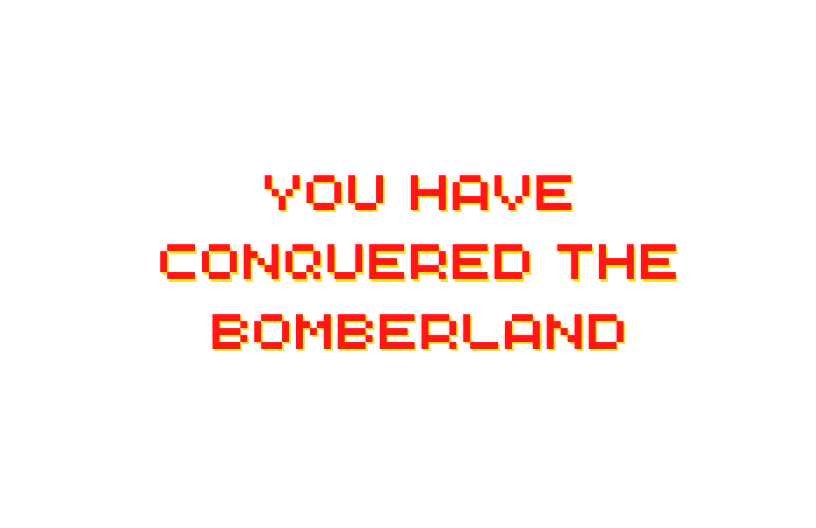
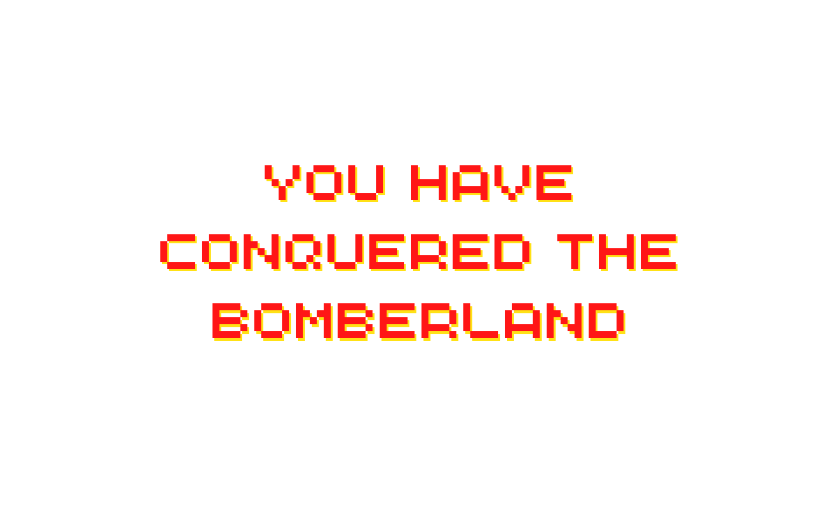
Final Touch, Game Over Menu, Finish Game Menu

Changed region(s): [[0.1838, 0.303, 0.8272, 0.5455], [0.2451, 0.5758, 0.7659, 0.6667]]

diff --git a/src/main/java/GUI/GameDone.java b/src/main/java/GUI/GameDone.java
@@ -13,9 +13,18 @@ import java.util.Objects;
 
 public class GameDone extends Scene {
     Image gameDone;
-    BufferedImage nextButton, nextButtonPressed, currentNextButton, finishMenu;
+    BufferedImage nextButton, nextButtonPressed, currentNextButton, finishMenu, finishMenuPressed, currentFinishMenu;
     Rectangle nextButtonRect;
     MouseHandler mouseH = Window.getMouseH();
+
+    public static GameDone instance = null;
+
+    public static GameDone getInstance() {
+        if (GameDone.instance == null) {
+            GameDone.instance = new GameDone();
+        }
+        return GameDone.instance;
+    }
 
     GameDone() {
 
@@ -26,9 +35,6 @@ public class GameDone extends Scene {
         try {
             nextButton = ImageIO.read(Objects.requireNonNull(getClass().getResourceAsStream("/Menu/Next.png")));
             nextButtonPressed = ImageIO.read(Objects.requireNonNull(getClass().getResourceAsStream("/Menu/NextPressed.png")));
-
-            finishMenu = ImageIO.read(Objects.requireNonNull(getClass().getResourceAsStream("/Menu/FinishMenu.png")));
-
             currentNextButton = nextButton;
 
         } catch (Exception e) {
@@ -39,25 +45,20 @@ public class GameDone extends Scene {
 
     @Override
     public void update() {
-        if (mouseH.checkInteractWithRect(mouseH, nextButtonRect)) {
-            currentNextButton = nextButtonPressed;
-            if (mouseH.isPressed) {
-                Window.getWindow().changeState(4);
+            if (mouseH.checkInteractWithRect(mouseH, nextButtonRect)) {
+                currentNextButton = nextButtonPressed;
+                if (mouseH.isPressed) {
+                    Window.getWindow().changeState(4); //From Congratulation to Credit
+                }
+            } else {
+                    currentNextButton = nextButton;
             }
-        } else {
-            currentNextButton = nextButton;
         }
-    }
+
 
     @Override
     public void draw(Graphics g) {
-        if (Window.getWindow().getCurrentState() == 3) {
-            g.drawImage(gameDone, 0, 0, Constant.WIDTH, Constant.HEIGHT, null);
-            g.drawImage(currentNextButton, 0, 0, Constant.WIDTH, Constant.HEIGHT, null);
-        }   else {
-            g.setColor(new Color(0, 0, 0, 150));
-            g.fillRect(0, 0, Constant.WIDTH, Constant.HEIGHT);
-            g.drawImage(finishMenu, 0, 0, Constant.WIDTH, Constant.HEIGHT, null);
-        }
+        g.drawImage(gameDone, 0, 0, Constant.WIDTH, Constant.HEIGHT, null);
+        g.drawImage(currentNextButton, 0, 0, Constant.WIDTH, Constant.HEIGHT, null);
     }
 }

diff --git a/src/main/java/GUI/FinishMenu.java b/src/main/java/GUI/FinishMenu.java
@@ -1,0 +1,52 @@
+package GUI;
+
+import Controls.MouseHandler;
+import Variables.Constant;
+
+import javax.imageio.ImageIO;
+import java.awt.*;
+import java.awt.image.BufferedImage;
+import java.util.Objects;
+
+public class FinishMenu {
+    BufferedImage finishMenu, finishMenuPressed, currentFinishMenu;
+    Rectangle nextButtonRect;
+    MouseHandler mouseH = Window.getMouseH();
+    public static FinishMenu instance = null;
+
+    public static FinishMenu getInstance(){
+        if (FinishMenu.instance == null){
+            FinishMenu.instance = new FinishMenu();
+        }
+        return FinishMenu.instance;
+    }
+
+    FinishMenu() {
+        try {
+            finishMenu = ImageIO.read(Objects.requireNonNull(getClass().getResourceAsStream("/Menu/FinishMenu.png")));
+            finishMenuPressed = ImageIO.read(Objects.requireNonNull(getClass().getResourceAsStream("/Menu/FinishMenuPressed.png")));
+            currentFinishMenu = finishMenu;
+        } catch (Exception e) {
+            e.printStackTrace();
+        }
+        nextButtonRect = new Rectangle(337, 434, 141, 30);
+    }
+
+    public void update() {
+        if (mouseH.checkInteractWithRect(mouseH, nextButtonRect)) {
+            currentFinishMenu = finishMenuPressed;
+            if (mouseH.isPressed) {
+                Window.getWindow().changeState(3); //to Game Done
+            }
+        } else {
+            currentFinishMenu = finishMenu;
+        }
+    }
+
+
+    public void draw(Graphics g) {
+        g.setColor(new Color(0, 0, 0, 150));
+        g.fillRect(0, 0, Constant.WIDTH, Constant.HEIGHT);
+        g.drawImage(currentFinishMenu, 0, 0, Constant.WIDTH, Constant.HEIGHT, null);
+    }
+}

diff --git a/src/main/java/GUI/GameScene.java b/src/main/java/GUI/GameScene.java
@@ -75,6 +75,12 @@ public class GameScene extends Scene {
             bombCounter = 0;
             bombSize = 2;
         }
+        if (isGameDone()){
+            FinishMenu.getInstance().update();
+            bombList.clear();
+            bombCounter = 0;
+            bombSize = 2;
+        }
     }
 
     @Override
@@ -85,8 +91,8 @@ public class GameScene extends Scene {
 
         player.draw(g2); //draw Player
 
-        if (Window.getWindow().currentMapID == 2){
-            if(boss != null){
+        if (Window.getWindow().currentMapID == 2) {
+            if (boss != null) {
                 boss.draw(g2); //draw Boss
             }
         }
@@ -98,7 +104,7 @@ public class GameScene extends Scene {
         }
 
         bombList.removeIf(b -> b.getState() == 2);
-        if(bombList != null){
+        if (bombList != null) {
             for (Bomb b : bombList) {
                 b.draw(g2); //Draw Bomb
             }
@@ -114,13 +120,9 @@ public class GameScene extends Scene {
         if (player.state == 0) {
             GameOver.getInstance().draw(g2); //Draw Game Over Menu
         }
-        if (isGameDone()){
-            try {
-                Thread.sleep(1000 * 10);
-                Window.getWindow().changeState(3); //Change to Game Done Menu
-            } catch (InterruptedException e) {
-                e.printStackTrace();
-            }
+        if (isGameDone()) {
+//            Window.getWindow().changeState(3); //Change to Game Done Menu
+            FinishMenu.getInstance().draw(g2); //Draw Game Done Menu
         }
     }
 

diff --git a/src/main/java/GUI/GameOver.java b/src/main/java/GUI/GameOver.java
@@ -44,8 +44,8 @@ public class GameOver {
         if (mouseH.checkInteractWithRect(mouseH, playAgainRect)) {
             currentGameOver = playAgainPressed;
             if (mouseH.isPressed) {
-//                Window.getWindow().changeState(2); // For debugging purposes
-                Window.getWindow().changeState(Window.getWindow().getCurrentMapID());
+                Window.getWindow().changeState(2); // For debugging purposes
+//                Window.getWindow().changeState(Window.getWindow().getCurrentMapID());
                 TileManager.getInstance().clearMap(); //Return map to default map
             }
         } else if (mouseH.checkInteractWithRect(mouseH, exitRect)) {

diff --git a/src/main/java/Entity/Boss.java b/src/main/java/Entity/Boss.java
@@ -42,7 +42,7 @@ public class Boss extends Entity {
         this.direction = "down";
         this.state = 1;
 
-        this.hitPoint = 200;
+        this.hitPoint = 100;
     }
 
     public void getMobImage() {
@@ -111,9 +111,9 @@ public class Boss extends Entity {
     }
 
     public void checkState(int hitPoint){
-        if (hitPoint == 0){
+        if (hitPoint <= 0){
             state = 0;
-        } else state =1;
+        } else state = 1;
     }
 
 
